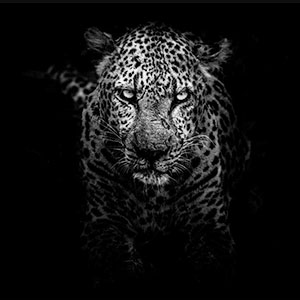
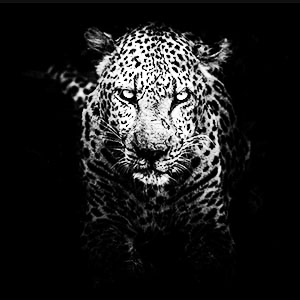
Fixes

Changed region(s): [[0.18, 0.09, 0.78, 0.75], [0.3, 0.72, 0.36, 0.75], [0.48, 0.69, 0.51, 0.72]]

diff --git a/dist/js/production.js b/dist/js/production.js
@@ -721,7 +721,7 @@ var ParticlesProd = function(webgl) {
     if (discard) {
       // discard pixels darker than threshold #22
       numVisible = 0;
-      threshold = 32;
+      threshold = 72;
 
       var img = this.texture.image;
       var canvas = document.createElement('canvas');
@@ -1016,6 +1016,10 @@ var ProductionView = function (container) {
     'img/sample-bg7.jpg',
     'img/sample-bg8.jpg',
     'img/sample-bg9.jpg',
+    'img/sample-bg10.jpg',
+    'img/sample-bg11.jpg',
+    'img/sample-bg12.jpg',
+    'img/sample-bg13.jpg',
   ];
 
   var rnd = ~~(Math.random() * this.samples.length);

diff --git a/docs/js/production.js b/docs/js/production.js
@@ -721,7 +721,7 @@ var ParticlesProd = function(webgl) {
     if (discard) {
       // discard pixels darker than threshold #22
       numVisible = 0;
-      threshold = 32;
+      threshold = 72;
 
       var img = this.texture.image;
       var canvas = document.createElement('canvas');
@@ -1016,6 +1016,10 @@ var ProductionView = function (container) {
     'img/sample-bg7.jpg',
     'img/sample-bg8.jpg',
     'img/sample-bg9.jpg',
+    'img/sample-bg10.jpg',
+    'img/sample-bg11.jpg',
+    'img/sample-bg12.jpg',
+    'img/sample-bg13.jpg',
   ];
 
   var rnd = ~~(Math.random() * this.samples.length);

diff --git a/src/js/production.js b/src/js/production.js
@@ -721,7 +721,7 @@ var ParticlesProd = function(webgl) {
     if (discard) {
       // discard pixels darker than threshold #22
       numVisible = 0;
-      threshold = 32;
+      threshold = 72;
 
       var img = this.texture.image;
       var canvas = document.createElement('canvas');
@@ -1016,6 +1016,10 @@ var ProductionView = function (container) {
     'img/sample-bg7.jpg',
     'img/sample-bg8.jpg',
     'img/sample-bg9.jpg',
+    'img/sample-bg10.jpg',
+    'img/sample-bg11.jpg',
+    'img/sample-bg12.jpg',
+    'img/sample-bg13.jpg',
   ];
 
   var rnd = ~~(Math.random() * this.samples.length);
